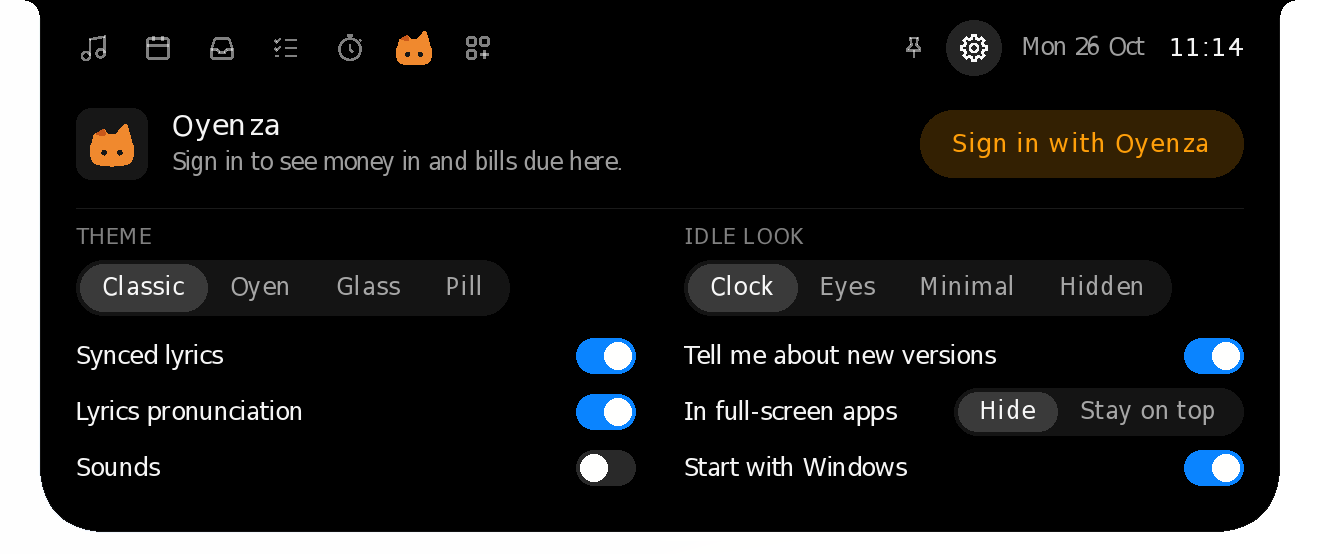
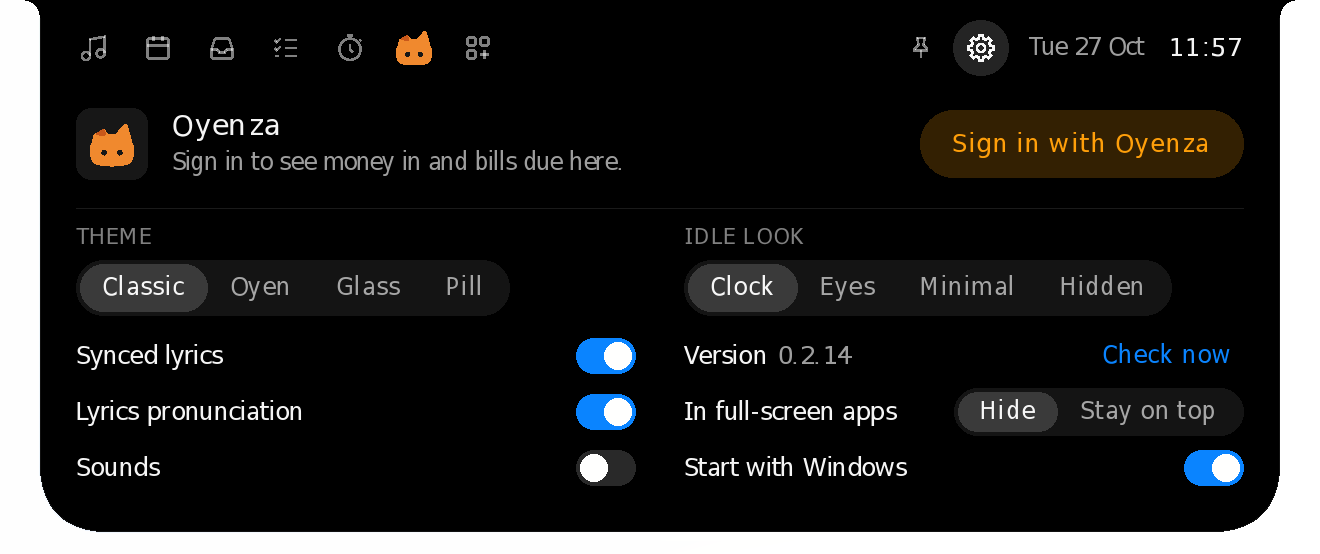
Release 0.2.14 (#147)
The island stays open under its right-click menu, and new versions are always looked for (#146); Bluetooth pop-ups are only for paired headphones and speakers (#151).

diff --git a/site/index.html b/site/index.html
@@ -634,7 +634,7 @@ dialog.more-sheet::backdrop { background: rgba(0, 0, 0, 0.42); -webkit-backdrop-
     <div class="side-sec">
       <p class="side-group">Overview</p>
       <a class="side-item" href="#top" data-k="home start download hero notch island"><i class="ic" style="--c:#1d1d1f"><svg class="ico"><use href="#i-screen"/></svg></i><span>A living notch</span></a>
-      <a class="side-item" href="#new" data-k="new release 0.2.13 latest changes check for updates every hour check now update available stays lyrics bar zen firefox stocks prices fixed getting prices mac updates install in place ihsg idx saham watchlist chart oyenza.trade today five weeks week ahead schedule month grid dots allow turn on prayer times anywhere world city mac youtube spotify browser now playing pill notch oyen oyenza tab system health add-ons clipboard history gone today your day google calendar gmail meeting join flights bills clipboard add-on touch screen tablet taps tap through notch eyes hide and seek macbook camera update available new version install now next start updater mac installer dmg window steps health oyenza sign in mac headphones full screen power island stays maximized windows sing along romaji lyrics mac prayer script reader teleprompter games power"><i class="ic" style="--c:#bf4800"><svg class="ico"><use href="#i-spark"/></svg></i><span>New in 0.2.13</span></a>
+      <a class="side-item" href="#new" data-k="new release 0.2.14 latest changes right click menu stays open island stays open always looks for new versions version check now bluetooth pop-ups headphones speakers paired quiet connected disconnected check for updates every hour check now update available stays lyrics bar zen firefox stocks prices fixed getting prices mac updates install in place ihsg idx saham watchlist chart oyenza.trade today five weeks week ahead schedule month grid dots allow turn on prayer times anywhere world city mac youtube spotify browser now playing pill notch oyen oyenza tab system health add-ons clipboard history gone today your day google calendar gmail meeting join flights bills clipboard add-on touch screen tablet taps tap through notch eyes hide and seek macbook camera update available new version install now next start updater mac installer dmg window steps health oyenza sign in mac headphones full screen power island stays maximized windows sing along romaji lyrics mac prayer script reader teleprompter games power"><i class="ic" style="--c:#bf4800"><svg class="ico"><use href="#i-spark"/></svg></i><span>New in 0.2.14</span></a>
       <a class="side-item" href="#highlights" data-k="best gallery overview"><i class="ic" style="--c:#ff9f0a"><svg class="ico"><use href="#i-spark"/></svg></i><span>Highlights</span></a>
       <a class="side-item" href="#features" data-k="rest idle music timer volume charging headphones bluetooth money clock eyes prayer countdown"><i class="ic" style="--c:#636366"><svg class="ico"><use href="#i-island"/></svg></i><span>While it rests</span></a>
     </div>
@@ -689,7 +689,7 @@ dialog.more-sheet::backdrop { background: rgba(0, 0, 0, 0.42); -webkit-backdrop-
     </div>
     <a class="side-me" data-release="notes" href="https://github.com/lucacadalora/oyenza-studio/releases/latest">
       <img src="brand/oyen-poni-logo.svg" alt="" width="30" height="30">
-      <span><b>Version <span data-release-copy="version">0.2.13</span></b><small>What's new on GitHub</small></span>
+      <span><b>Version <span data-release-copy="version">0.2.14</span></b><small>What's new on GitHub</small></span>
     </a>
   </div>
 </aside>
@@ -730,9 +730,9 @@ dialog.more-sheet::backdrop { background: rgba(0, 0, 0, 0.42); -webkit-backdrop-
           <div class="hero-copy">
             <h1 class="t-hero-eyebrow">Oyenza Studio</h1>
             <p class="t-hero">A living notch.</p>
-            <a class="t-avail" href="#new">New in 0.2.13: new versions reach you within the hour, and Check for updates… in the menu.</a>
+            <a class="t-avail" href="#new">New in 0.2.14: the island stays open under its right-click menu, and new versions are always looked for.</a>
             <div class="buybox">
-              <div><b>Free for Windows and Mac</b><span class="fine">Open source · Windows <span data-release="size">2.7&nbsp;MB</span> · Mac <span data-release="mac-size">4.6&nbsp;MB</span> · <a class="notes" data-release="notes" href="https://github.com/lucacadalora/oyenza-studio/releases/latest">What's new in <span data-release="version">0.2.13</span></a></span></div>
+              <div><b>Free for Windows and Mac</b><span class="fine">Open source · Windows <span data-release="size">2.7&nbsp;MB</span> · Mac <span data-release="mac-size">4.6&nbsp;MB</span> · <a class="notes" data-release="notes" href="https://github.com/lucacadalora/oyenza-studio/releases/latest">What's new in <span data-release="version">0.2.14</span></a></span></div>
               <a class="btn dl-primary" href="https://github.com/lucacadalora/oyenza-studio/releases/latest/download/Oyenza-Studio-Setup.exe">Download</a>
             </div>
             <a class="link hero-other dl-other" data-release="mac-link" href="https://github.com/lucacadalora/oyenza-studio/releases/latest/download/Oyenza-Studio-Mac.dmg">Download for Mac</a>
@@ -751,8 +751,11 @@ dialog.more-sheet::backdrop { background: rgba(0, 0, 0, 0.42); -webkit-backdrop-
   </section>
 
   <section class="sec band" id="new" aria-labelledby="new-title">
-    <div class="content head rv"><h2 class="t-l" id="new-title">New in 0.2.13.</h2></div>
+    <div class="content head rv"><h2 class="t-l" id="new-title">New in 0.2.14.</h2></div>
     <div class="content news">
+      <a class="news-tile rv" href="#settings"><p class="t-card">The menu keeps it open</p><p class="t-tile">Right-click the open island and it stays open under the menu. It used to close as soon as the menu came up.</p></a>
+      <a class="news-tile rv" href="#settings"><p class="t-card">Always up to date</p><p class="t-tile">Studio always looks for new versions, so the switch for it is gone. Settings shows your version, with Check now beside it.</p></a>
+      <a class="news-tile rv" href="#features"><p class="t-card">Bluetooth, only your headphones</p><p class="t-tile">Pop-ups come for the headphones and speakers paired with your PC, once they've connected. Devices nearby and blips stay quiet.</p></a>
       <a class="news-tile rv" href="#settings"><p class="t-card">Updates within the hour</p><p class="t-tile">Check for updates… in the menu, and new versions reach you within the hour.</p></a>
       <a class="news-tile rv" href="#settings"><p class="t-card">Check now</p><p class="t-tile">Check now in Settings, and Update available stays until you install or hide it.</p></a>
       <a class="news-tile rv" href="#features"><p class="t-card">Lyrics stay on</p><p class="t-tile">Music in Zen or Firefox keeps its bar and lyrics. They used to vanish a few minutes into a song until you paused and played.</p></a>
@@ -1044,7 +1047,7 @@ dialog.more-sheet::backdrop { background: rgba(0, 0, 0, 0.42); -webkit-backdrop-
       <div class="panel rv-zoom" data-scene="par" style="--band:28px">
         <div class="sky-layer"></div>
         <div class="isl">
-          <img class="look-classic" src="assets/shots/classic/page-settings.webp" alt="The Settings page: Sign in with Oyenza at the top, then the theme, the idle look, six switches (Tell me about new versions among them) and a Hide or Stay on top choice for full-screen apps" width="660" height="277" loading="lazy">
+          <img class="look-classic" src="assets/shots/classic/page-settings.webp" alt="The Settings page: Sign in with Oyenza at the top, then the theme, the idle look, four switches, the version with Check now beside it, and a Hide or Stay on top choice for full-screen apps" width="660" height="277" loading="lazy">
           <img class="look-oyen" src="assets/shots/oyen/page-settings.webp" alt="The Settings page in the Oyen theme" width="660" height="277" loading="lazy">
         </div>
       </div>

diff --git a/docs/release-notes/v0.2.14.md b/docs/release-notes/v0.2.14.md
@@ -1,0 +1,15 @@
+**The island stays open under its menu.** Right-clicking the open island used to close it as soon as the menu appeared: the pointer moved onto the menu, and the island took that as you leaving. Now it stays open while the menu is up. When the menu closes, it stays open if the pointer is back on it and closes as usual if it isn't. On Windows and on a Mac.
+
+**New versions are always looked for.** The **Tell me about new versions** switch is gone: Oyenza Studio always looks, a couple of minutes after it starts and then every hour, and only while someone is at the computer. **Update available** still comes up on the island when there's a new version. In Settings, the row says which version you have, with **Check now** beside it. A copy that had the switch off starts looking again.
+
+**Bluetooth pop-ups are for your headphones.** Some people saw a Bluetooth device connect and disconnect on the island, again and again, with nothing connected. Now a pop-up comes only for headphones, earbuds and speakers paired with your PC, once the change has held for 3 seconds. Devices nearby that were never paired with it stay quiet, and so does a connection that comes and goes in a moment. So do phones, mice, keyboards and watches, which come and go by themselves. On Windows; the Mac already showed only headphones.
+
+Everything new in 0.2.13 is here too: Check for updates… in the menu, and lyrics that stay on in Zen and Firefox. See the [0.2.13 notes](https://github.com/lucacadalora/oyenza-studio/releases/tag/v0.2.13).
+
+**Install:** download `Oyenza-Studio-Setup.exe` and run it. It installs just for you (no admin rights) and can start with Windows. Or unzip the portable zip and run `Poni\poni.exe`. Links to `Oyen-Poni-Setup.exe` keep working: every release carries that file too.
+
+**On a Mac:** open `Oyenza-Studio-Mac.dmg` and drag Oyenza Studio into Applications. It isn't signed with an Apple Developer ID yet, so the first time macOS warns you, click **Done**, then open **System Settings → Privacy & Security** and click **Open Anyway**.
+
+**Upgrading:** the island says **Update available** within the hour on 0.2.13, and within half a day on 0.2.6 to 0.2.12; **Install now** in the Update sheet installs it for you. If you had switched off **Tell me about new versions**, your copy won't say so: run the new installer once. Either way it upgrades in place and keeps your settings, data, add-ons and Oyenza sign-in.
+
+The build isn't code-signed yet, so Windows SmartScreen may say "Windows protected your PC". Click **More info → Run anyway**.
